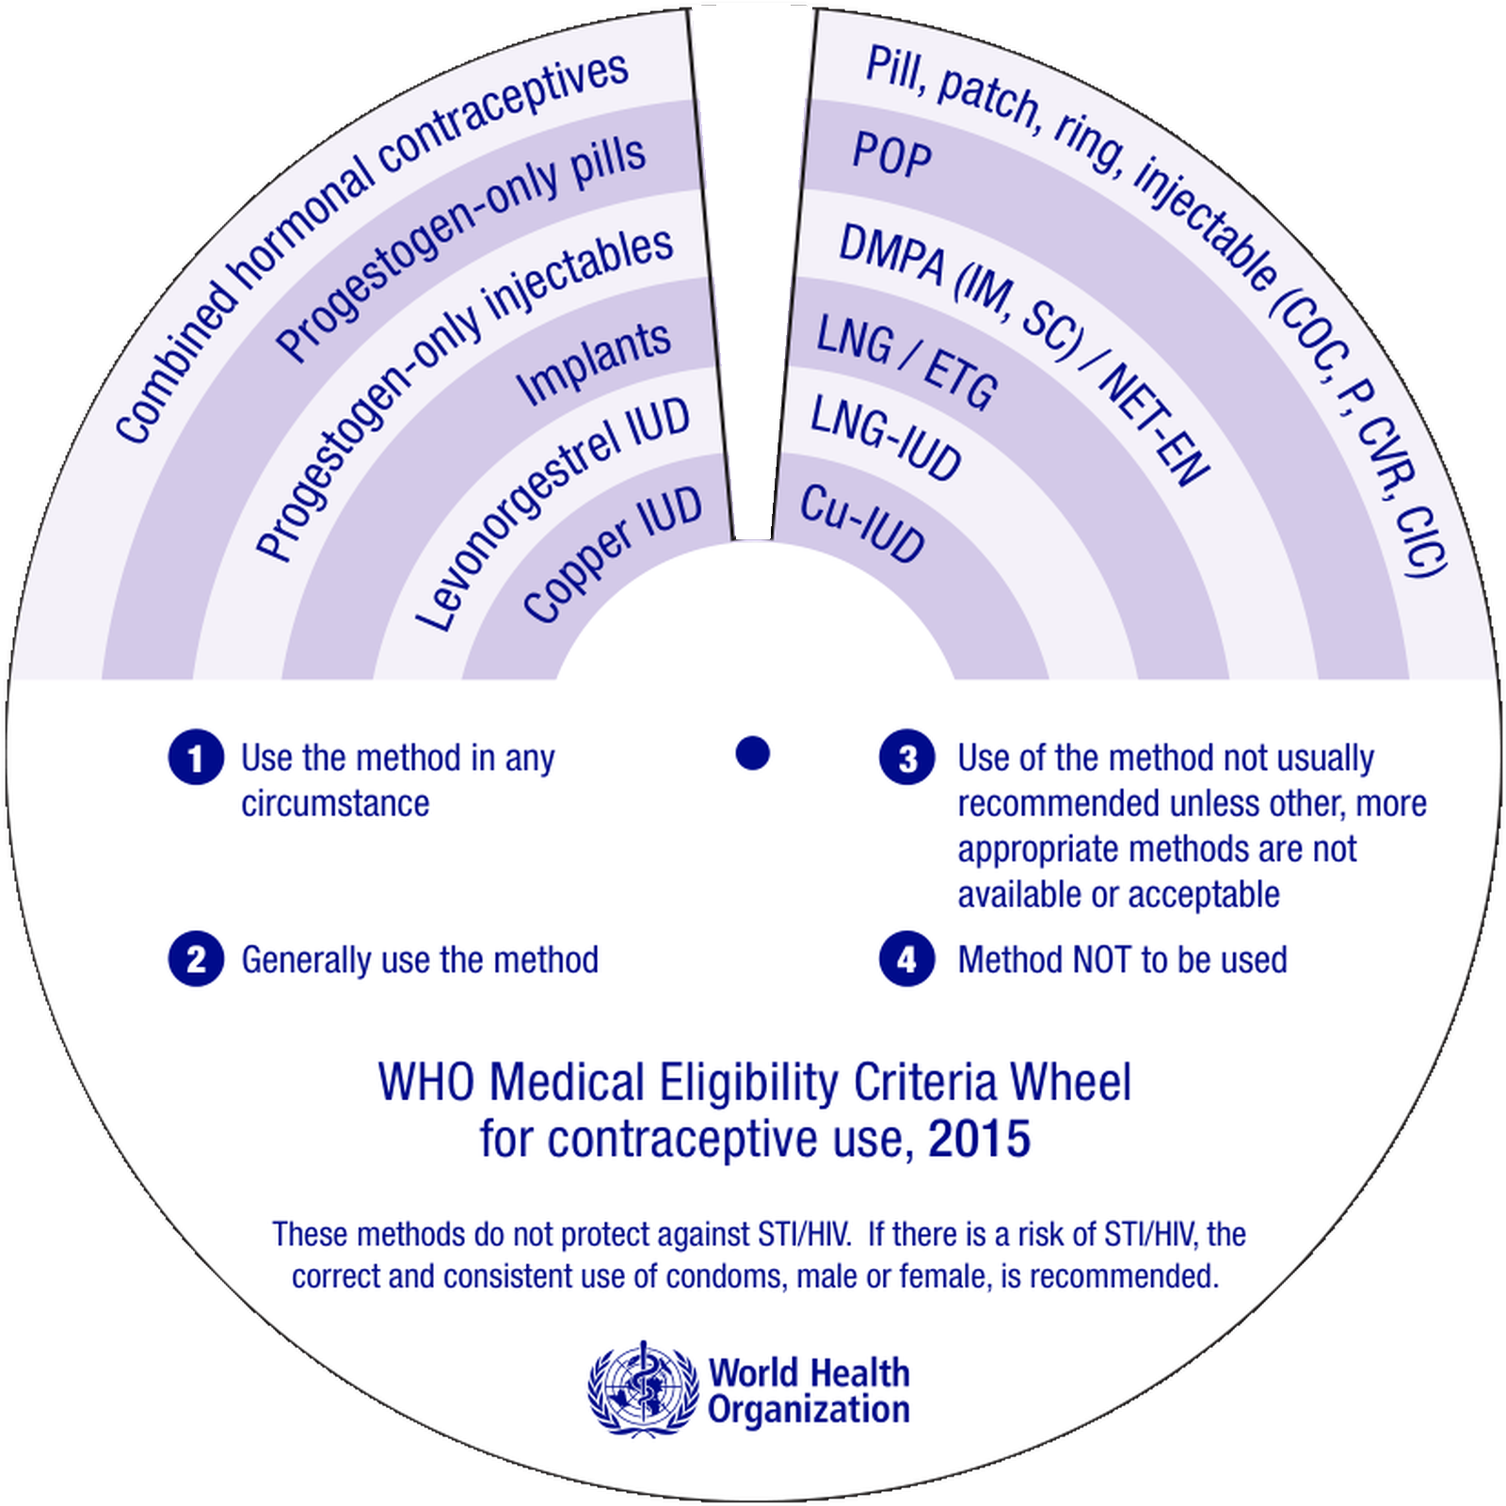
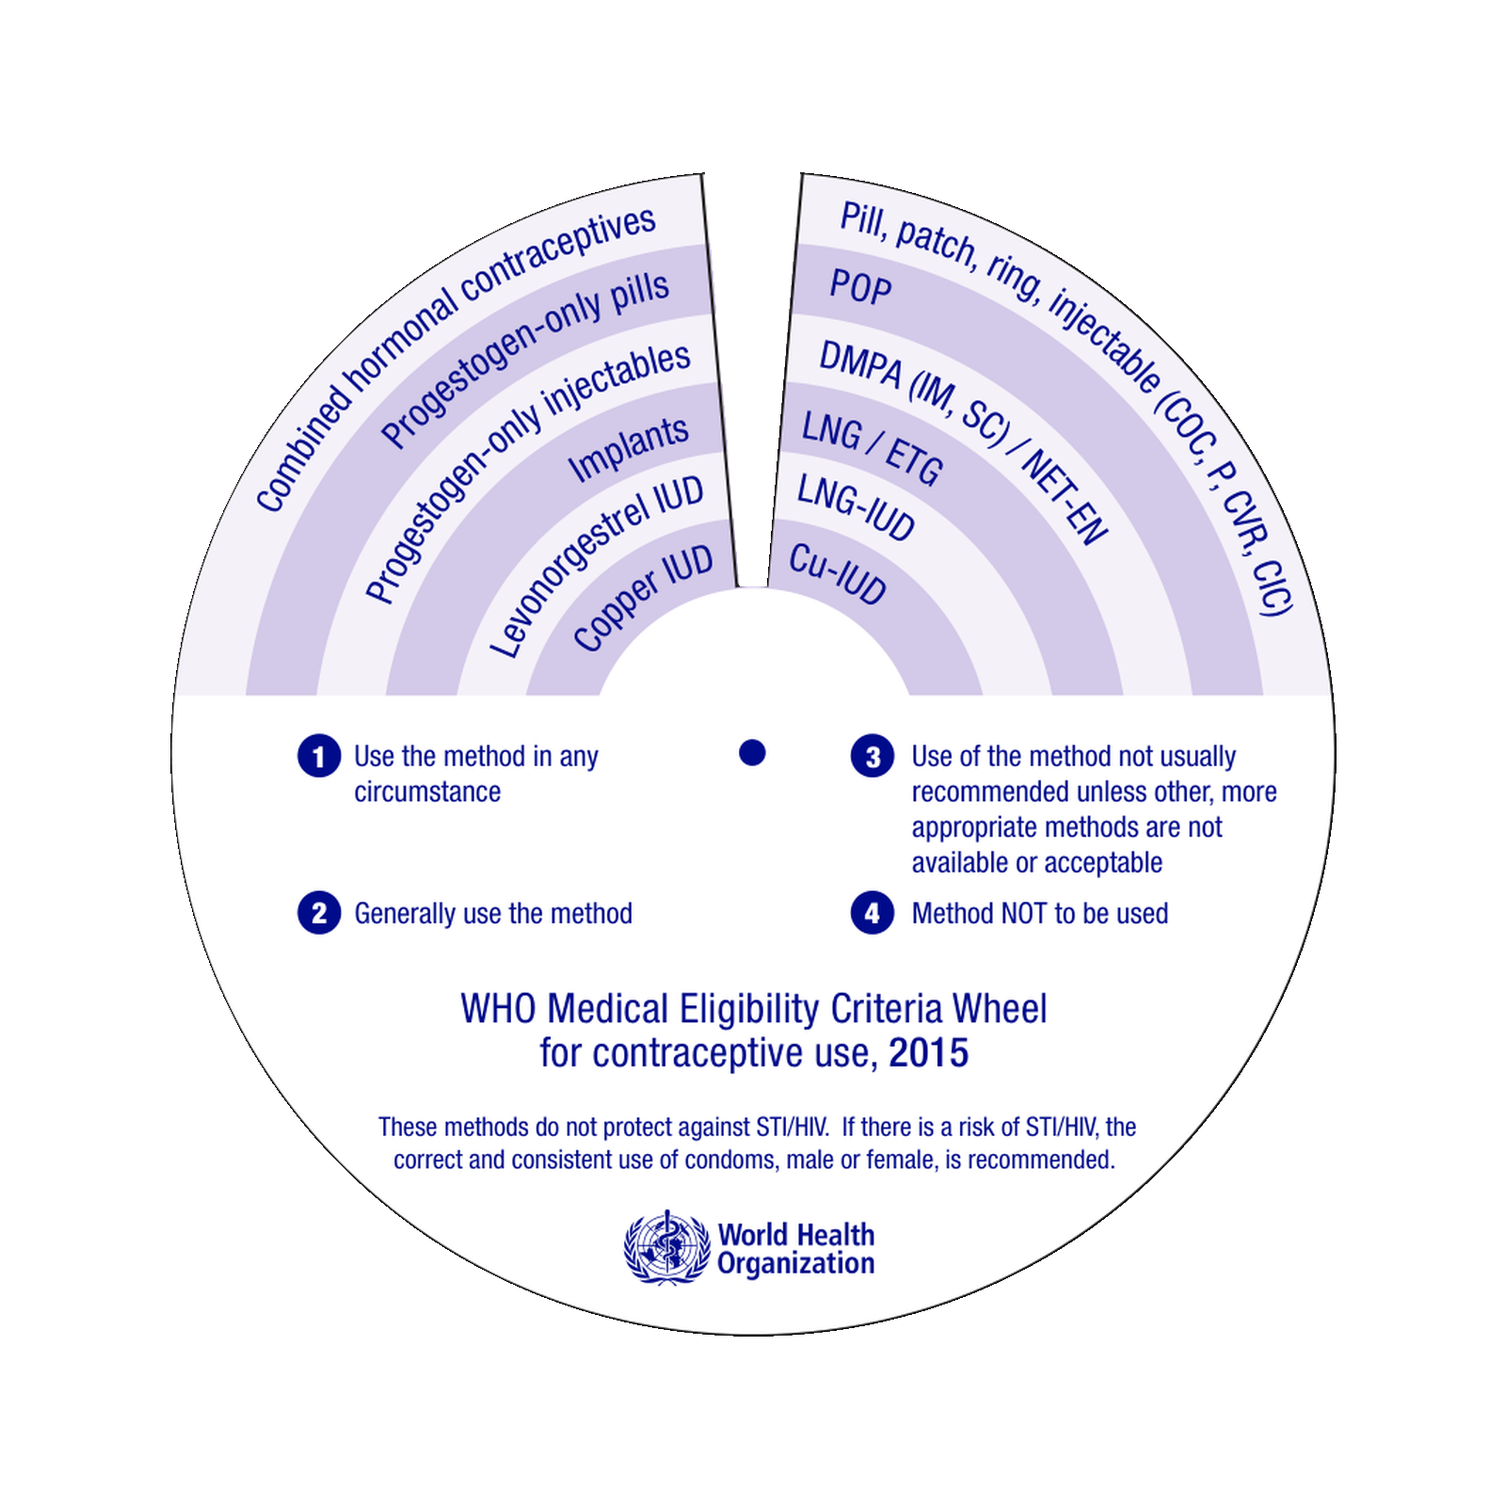
Fix WHO wheel outer condition circles, desktop sidebar layout, and add mobile semicircle viewport

diff --git a/src/tools/obstetrics/mec-common/MecWheel.tsx b/src/tools/obstetrics/mec-common/MecWheel.tsx
@@ -3,7 +3,7 @@
 import React, { useRef, useEffect, useState, useCallback, useMemo } from "react";
 import Image from "next/image";
 import { MecDataset, MecSectorData } from "./types";
-import { Volume2, VolumeX, RotateCcw, ZoomIn, ZoomOut, Maximize2, Minimize2, ChevronLeft, ChevronRight, Compass } from "lucide-react";
+import { Volume2, VolumeX, RotateCcw, ZoomIn, ZoomOut, Maximize2, Minimize2, ChevronLeft, ChevronRight, Compass, Scan } from "lucide-react";
 import { Button } from "@/components/ui/button";
 
 interface MecWheelProps {
@@ -24,6 +24,16 @@ export function MecWheel({
   const containerRef = useRef<HTMLDivElement>(null);
   const wheelGroupRef = useRef<HTMLDivElement>(null);
   const svgOverlayRef = useRef<SVGSVGElement>(null);
+
+  // View Mode: 'semicircle' (focused top half with large fonts for small screens) or 'full' (full 360 circle)
+  const [viewMode, setViewMode] = useState<"semicircle" | "full">("full");
+
+  // Automatically default to semicircle mode on small screens (< 640px)
+  useEffect(() => {
+    if (typeof window !== "undefined" && window.innerWidth < 640) {
+      setViewMode("semicircle");
+    }
+  }, []);
 
   // Sound effects toggle
   const [soundEnabled, setSoundEnabled] = useState(false);
@@ -149,8 +159,9 @@ export function MecWheel({
 
   // Pointer angle calculation
   const getAngle = useCallback((clientX: number, clientY: number) => {
-    if (!containerRef.current) return 0;
-    const rect = containerRef.current.getBoundingClientRect();
+    const el = wheelGroupRef.current || containerRef.current;
+    if (!el) return 0;
+    const rect = el.getBoundingClientRect();
     const cx = rect.left + rect.width / 2;
     const cy = rect.top + rect.height / 2;
     const dx = clientX - cx;
@@ -326,8 +337,25 @@ export function MecWheel({
           </Button>
         </div>
 
-        {/* Right: Sound, Zoom, Reset, Fullscreen */}
+        {/* Right: View Mode, Sound, Zoom, Reset, Fullscreen */}
         <div className="flex items-center gap-0.5 sm:gap-1">
+          <Button
+            variant={viewMode === "semicircle" ? "secondary" : "ghost"}
+            size="sm"
+            className="h-8 px-2 text-xs font-semibold rounded-lg flex items-center gap-1 text-foreground"
+            onClick={() => setViewMode((prev) => (prev === "semicircle" ? "full" : "semicircle"))}
+            title={
+              viewMode === "semicircle"
+                ? "Show full 360° wheel"
+                : "Focus top semicircle (large fonts for small screens)"
+            }
+          >
+            <Scan className="h-3.5 w-3.5 text-primary" />
+            <span className="hidden xs:inline">
+              {viewMode === "semicircle" ? "Full Wheel" : "Large Arc"}
+            </span>
+          </Button>
+
           <Button
             variant="ghost"
             size="icon"
@@ -394,78 +422,90 @@ export function MecWheel({
 
       {/* Main Wheel Responsive Scaled Container with Physics Rotation */}
       <div
-        className="relative w-full max-w-[340px] xs:max-w-[380px] sm:max-w-[460px] md:max-w-[520px] lg:max-w-[560px] aspect-square flex items-center justify-center cursor-grab active:cursor-grabbing transition-transform duration-200"
-        style={{ transform: `scale(${zoom})` }}
-        onPointerDown={handlePointerDown}
-        onPointerMove={handlePointerMove}
-        onPointerUp={handlePointerUp}
-        onPointerCancel={handlePointerUp}
+        className={`relative w-full flex justify-center items-start overflow-hidden transition-all duration-300 ${
+          viewMode === "semicircle"
+            ? "h-[270px] xs:h-[310px] sm:h-[360px] md:h-[400px]"
+            : "aspect-square max-w-[340px] xs:max-w-[380px] sm:max-w-[460px] md:max-w-[520px] lg:max-w-[560px]"
+        }`}
       >
-        {/* ROTATING BASE WHEEL (Lower disc with conditions & concentric scores) */}
         <div
-          ref={wheelGroupRef}
-          className="absolute inset-0 w-full h-full will-change-transform rounded-full shadow-2xl overflow-hidden"
-          style={{
-            transform: `rotate(${currentRotationRef.current}deg)`,
-            transition: isDragging.current ? "none" : undefined
-          }}
+          className={`relative aspect-square flex items-center justify-center cursor-grab active:cursor-grabbing transition-transform duration-200 shrink-0 ${
+            viewMode === "semicircle"
+              ? "w-[440px] xs:w-[500px] sm:w-[560px] md:w-[620px] -mt-1"
+              : "w-full h-full"
+          }`}
+          style={{ transform: `scale(${zoom})` }}
+          onPointerDown={handlePointerDown}
+          onPointerMove={handlePointerMove}
+          onPointerUp={handlePointerUp}
+          onPointerCancel={handlePointerUp}
         >
-          <Image
-            src={dataset.lowerWheelImage}
-            alt="MEC Lower Wheel Disc"
-            fill
-            sizes="(max-width: 640px) 340px, (max-width: 768px) 460px, 560px"
-            priority
-            className="object-contain pointer-events-none"
-          />
-
-          {/* SVG Clickable Sector Overlays on Lower Wheel */}
-          <svg
-            ref={svgOverlayRef}
-            viewBox="0 0 800 800"
-            className="absolute inset-0 w-full h-full pointer-events-auto"
+          {/* ROTATING BASE WHEEL (Lower disc with conditions & concentric scores) */}
+          <div
+            ref={wheelGroupRef}
+            className="absolute inset-0 w-full h-full will-change-transform rounded-full shadow-2xl overflow-hidden"
+            style={{
+              transform: `rotate(${currentRotationRef.current}deg)`,
+              transition: isDragging.current ? "none" : undefined
+            }}
           >
-            {svgSectors.map(({ index, pathData, sector }) => {
-              const isSelected = activeSectorIndex === index;
-              const isHighlighted = highlightedSectorIndex === index;
-              return (
-                <path
-                  key={sector.id}
-                  d={pathData}
-                  className={`transition-colors cursor-pointer ${
-                    isSelected
-                      ? "fill-primary/25 stroke-primary stroke-[3]"
-                      : isHighlighted
-                      ? "fill-amber-400/35 stroke-amber-400 stroke-[3] animate-pulse"
-                      : "fill-transparent hover:fill-primary/10 stroke-transparent"
-                  }`}
-                  onClick={(e) => {
-                    e.stopPropagation();
-                    spinToSector(index);
-                  }}
-                >
-                  <title>{`${sector.categoryName}: ${sector.conditionName}`}</title>
-                </path>
-              );
-            })}
-          </svg>
-        </div>
+            <Image
+              src={dataset.lowerWheelImage}
+              alt="MEC Lower Wheel Disc"
+              fill
+              sizes="(max-width: 640px) 460px, (max-width: 768px) 520px, 600px"
+              priority
+              className="object-contain pointer-events-none"
+            />
 
-        {/* STATIC COVER DISC (Upper wheel with transparent viewing window slot at 12 o'clock) */}
-        <div className="absolute inset-0 w-full h-full pointer-events-none rounded-full overflow-hidden">
-          <Image
-            src={dataset.upperWheelImage}
-            alt="MEC Upper Wheel Viewing Slot"
-            fill
-            sizes="(max-width: 640px) 340px, (max-width: 768px) 460px, 560px"
-            priority
-            className="object-contain"
-          />
-        </div>
+            {/* SVG Clickable Sector Overlays on Lower Wheel */}
+            <svg
+              ref={svgOverlayRef}
+              viewBox="0 0 800 800"
+              className="absolute inset-0 w-full h-full pointer-events-auto"
+            >
+              {svgSectors.map(({ index, pathData, sector }) => {
+                const isSelected = activeSectorIndex === index;
+                const isHighlighted = highlightedSectorIndex === index;
+                return (
+                  <path
+                    key={sector.id}
+                    d={pathData}
+                    className={`transition-colors cursor-pointer ${
+                      isSelected
+                        ? "fill-primary/25 stroke-primary stroke-[3]"
+                        : isHighlighted
+                        ? "fill-amber-400/35 stroke-amber-400 stroke-[3] animate-pulse"
+                        : "fill-transparent hover:fill-primary/10 stroke-transparent"
+                    }`}
+                    onClick={(e) => {
+                      e.stopPropagation();
+                      spinToSector(index);
+                    }}
+                  >
+                    <title>{`${sector.categoryName}: ${sector.conditionName}`}</title>
+                  </path>
+                );
+              })}
+            </svg>
+          </div>
 
-        {/* Center Pivot Pin Graphic */}
-        <div className="absolute w-7 h-7 sm:w-9 sm:h-9 rounded-full bg-gradient-to-tr from-slate-800 via-slate-600 to-slate-200 border-2 border-white shadow-xl flex items-center justify-center pointer-events-none z-10">
-          <div className="w-2.5 h-2.5 rounded-full bg-primary ring-2 ring-white/50" />
+          {/* STATIC COVER DISC (Upper wheel with transparent viewing window slot at 12 o'clock) */}
+          <div className="absolute inset-0 w-full h-full pointer-events-none rounded-full overflow-hidden">
+            <Image
+              src={dataset.upperWheelImage}
+              alt="MEC Upper Wheel Viewing Slot"
+              fill
+              sizes="(max-width: 640px) 460px, (max-width: 768px) 520px, 600px"
+              priority
+              className="object-contain"
+            />
+          </div>
+
+          {/* Center Pivot Pin Graphic */}
+          <div className="absolute w-7 h-7 sm:w-9 sm:h-9 rounded-full bg-gradient-to-tr from-slate-800 via-slate-600 to-slate-200 border-2 border-white shadow-xl flex items-center justify-center pointer-events-none z-10">
+            <div className="w-2.5 h-2.5 rounded-full bg-primary ring-2 ring-white/50" />
+          </div>
         </div>
       </div>
 

diff --git a/src/tools/obstetrics/mec-common/MecActiveSectorCard.tsx b/src/tools/obstetrics/mec-common/MecActiveSectorCard.tsx
@@ -81,14 +81,14 @@ export function MecActiveSectorCard({
       </CardHeader>
 
       <CardContent className="p-4 sm:p-5 space-y-3">
-        <div className="flex items-center justify-between">
+        <div className="flex items-center justify-between pb-1">
           <h4 className="text-xs font-bold uppercase tracking-wider text-muted-foreground flex items-center gap-1.5">
             <Sparkles className="w-3.5 h-3.5 text-primary" />
             Contraceptive Method Ratings (Viewing Slot)
           </h4>
         </div>
 
-        <div className="grid grid-cols-1 gap-2.5">
+        <div className="grid grid-cols-1 gap-3">
           {sector.scores.map((scoreItem) => {
             const methodDef = dataset.methods.find((m) => m.id === scoreItem.methodId);
             if (!methodDef) return null;
@@ -97,66 +97,73 @@ export function MecActiveSectorCard({
             return (
               <div
                 key={scoreItem.methodId}
-                className="group flex flex-col sm:flex-row sm:items-center justify-between p-3.5 rounded-xl border border-border/70 hover:border-primary/50 bg-card hover:bg-muted/30 transition-all duration-150 gap-2 sm:gap-4 shadow-2xs"
+                className="group p-3.5 rounded-xl border border-border/70 hover:border-primary/50 bg-card hover:bg-muted/20 transition-all duration-150 shadow-xs space-y-2.5"
               >
-                {/* Method Name & Quick Info */}
-                <div className="flex-1 min-w-0">
-                  <div className="flex items-center gap-2">
-                    <button
-                      type="button"
-                      onClick={() => onMethodClick?.(methodDef.id)}
-                      className="font-bold text-sm sm:text-base text-foreground hover:text-primary transition-colors text-left flex items-center gap-1.5"
-                    >
-                      <span>{methodDef.name}</span>
-                      <ExternalLink className="w-3.5 h-3.5 opacity-0 group-hover:opacity-100 transition-opacity text-primary shrink-0" />
-                    </button>
-                    <span className="text-xs text-muted-foreground font-mono hidden md:inline">
-                      ({methodDef.shortName})
-                    </span>
+                {/* Top Row: Method Title & High-Contrast Score Badge */}
+                <div className="flex items-start justify-between gap-3">
+                  <div className="min-w-0 flex-1">
+                    <div className="flex items-center gap-2 flex-wrap">
+                      <button
+                        type="button"
+                        onClick={() => onMethodClick?.(methodDef.id)}
+                        className="font-bold text-sm sm:text-base text-foreground hover:text-primary transition-colors text-left flex items-center gap-1.5"
+                      >
+                        <span className="leading-tight">{methodDef.name}</span>
+                        <ExternalLink className="w-3.5 h-3.5 opacity-0 group-hover:opacity-100 transition-opacity text-primary shrink-0" />
+                      </button>
+                      <span className="text-xs text-muted-foreground font-mono bg-muted/60 px-1.5 py-0.5 rounded shrink-0">
+                        {methodDef.shortName}
+                      </span>
+                    </div>
+
+                    {methodDef.indiaBrandNames && methodDef.indiaBrandNames.length > 0 && (
+                      <div className="text-xs text-emerald-700 dark:text-emerald-400 font-semibold mt-1">
+                        National Basket: {methodDef.indiaBrandNames.join(", ")}
+                      </div>
+                    )}
                   </div>
 
-                  {methodDef.indiaBrandNames && methodDef.indiaBrandNames.length > 0 && (
-                    <div className="text-xs text-emerald-700 dark:text-emerald-400 mt-0.5 font-bold">
-                      National Basket: {methodDef.indiaBrandNames[0]}
-                    </div>
-                  )}
-
-                  {scoreItem.clarification && (
-                    <p className="text-xs text-muted-foreground mt-1 leading-snug line-clamp-2">
-                      {scoreItem.clarification}
-                    </p>
-                  )}
-                </div>
-
-                {/* High-Contrast Score Pill & Footnotes */}
-                <div className="flex items-center gap-2 self-start sm:self-center shrink-0">
+                  {/* High-Contrast Clinical Category Badge */}
                   <div
-                    className={`flex items-center gap-1.5 px-3 py-1.5 rounded-lg font-mono text-sm sm:text-base min-w-[42px] justify-center text-center ${badgeMeta.badgeStyle}`}
+                    className={`flex items-center gap-1.5 px-3 py-1.5 rounded-lg font-mono text-sm shrink-0 shadow-xs ${badgeMeta.badgeStyle}`}
                     title={badgeMeta.desc}
                   >
-                    <span>{scoreItem.score}</span>
-                    <span className="text-[11px] font-sans font-semibold opacity-95 hidden sm:inline ml-1">
+                    <span className="font-black text-base leading-none">{scoreItem.score}</span>
+                    <span className="text-xs font-sans font-bold tracking-tight hidden xs:inline sm:inline">
                       {badgeMeta.label.split(":")[1]}
                     </span>
                   </div>
-
-                  {/* Footnote button tags */}
-                  {scoreItem.notes && scoreItem.notes.length > 0 && (
-                    <div className="flex items-center gap-1">
-                      {scoreItem.notes.map((note) => (
-                        <button
-                          key={note}
-                          type="button"
-                          onClick={() => onNoteClick?.(note)}
-                          className="px-2 py-1 text-xs font-mono font-bold bg-primary/15 hover:bg-primary/25 text-primary border border-primary/30 rounded-md transition-colors"
-                          title={`Click to view Clinical Note ${note}`}
-                        >
-                          Note {note}
-                        </button>
-                      ))}
-                    </div>
-                  )}
                 </div>
+
+                {/* Secondary Row: Footnote Clinical Notes & Clarifications */}
+                {((scoreItem.notes && scoreItem.notes.length > 0) || scoreItem.clarification) && (
+                  <div className="pt-2 border-t border-border/50 flex flex-wrap items-center gap-2 text-xs">
+                    {scoreItem.notes && scoreItem.notes.length > 0 && (
+                      <div className="flex items-center gap-1.5 shrink-0">
+                        <span className="text-[10px] uppercase font-bold text-muted-foreground tracking-wider">
+                          Notes:
+                        </span>
+                        {scoreItem.notes.map((note) => (
+                          <button
+                            key={note}
+                            type="button"
+                            onClick={() => onNoteClick?.(note)}
+                            className="px-2 py-0.5 text-xs font-mono font-bold bg-primary/10 hover:bg-primary/25 text-primary border border-primary/30 rounded-md transition-colors"
+                            title={`Click to view Clinical Note ${note}`}
+                          >
+                            Note {note}
+                          </button>
+                        ))}
+                      </div>
+                    )}
+
+                    {scoreItem.clarification && (
+                      <p className="text-xs text-muted-foreground italic flex-1 min-w-[200px] leading-snug">
+                        {scoreItem.clarification}
+                      </p>
+                    )}
+                  </div>
+                )}
               </div>
             );
           })}

diff --git a/src/tools/obstetrics/india-mec-wheel/index.tsx b/src/tools/obstetrics/india-mec-wheel/index.tsx
@@ -231,7 +231,7 @@ export function IndiaMecWheelTool() {
           {/* Dual Layout: Large Interactive Physics Wheel + Live Active Sector Card */}
           <div className="grid grid-cols-1 lg:grid-cols-12 gap-6 items-start">
             {/* Left: Interactive Wheel */}
-            <div className="lg:col-span-7 flex flex-col items-center justify-center p-3 sm:p-5 rounded-3xl border border-border/70 bg-card/60 backdrop-blur-md shadow-sm">
+            <div className="lg:col-span-6 xl:col-span-5 flex flex-col items-center justify-center p-3 sm:p-5 rounded-3xl border border-border/70 bg-card/60 backdrop-blur-md shadow-sm">
               <MecWheel
                 dataset={indiaMecData}
                 activeSectorIndex={activeSectorIndex}
@@ -241,7 +241,7 @@ export function IndiaMecWheelTool() {
             </div>
 
             {/* Right: Active Sector Card & Quick Actions */}
-            <div className="lg:col-span-5 space-y-4">
+            <div className="lg:col-span-6 xl:col-span-7 space-y-4">
               <MecActiveSectorCard
                 dataset={indiaMecData}
                 sector={activeSector}

diff --git a/src/tools/obstetrics/who-mec-wheel/index.tsx b/src/tools/obstetrics/who-mec-wheel/index.tsx
@@ -231,7 +231,7 @@ export function WhoMecWheelTool() {
           {/* Dual Layout: Large Interactive Physics Wheel + Live Active Sector Card */}
           <div className="grid grid-cols-1 lg:grid-cols-12 gap-6 items-start">
             {/* Left: Interactive Wheel */}
-            <div className="lg:col-span-7 flex flex-col items-center justify-center p-3 sm:p-5 rounded-3xl border border-border/70 bg-card/60 backdrop-blur-md shadow-sm">
+            <div className="lg:col-span-6 xl:col-span-5 flex flex-col items-center justify-center p-3 sm:p-5 rounded-3xl border border-border/70 bg-card/60 backdrop-blur-md shadow-sm">
               <MecWheel
                 dataset={whoMecData}
                 activeSectorIndex={activeSectorIndex}
@@ -241,7 +241,7 @@ export function WhoMecWheelTool() {
             </div>
 
             {/* Right: Active Sector Card & Quick Actions */}
-            <div className="lg:col-span-5 space-y-4">
+            <div className="lg:col-span-6 xl:col-span-7 space-y-4">
               <MecActiveSectorCard
                 dataset={whoMecData}
                 sector={activeSector}
